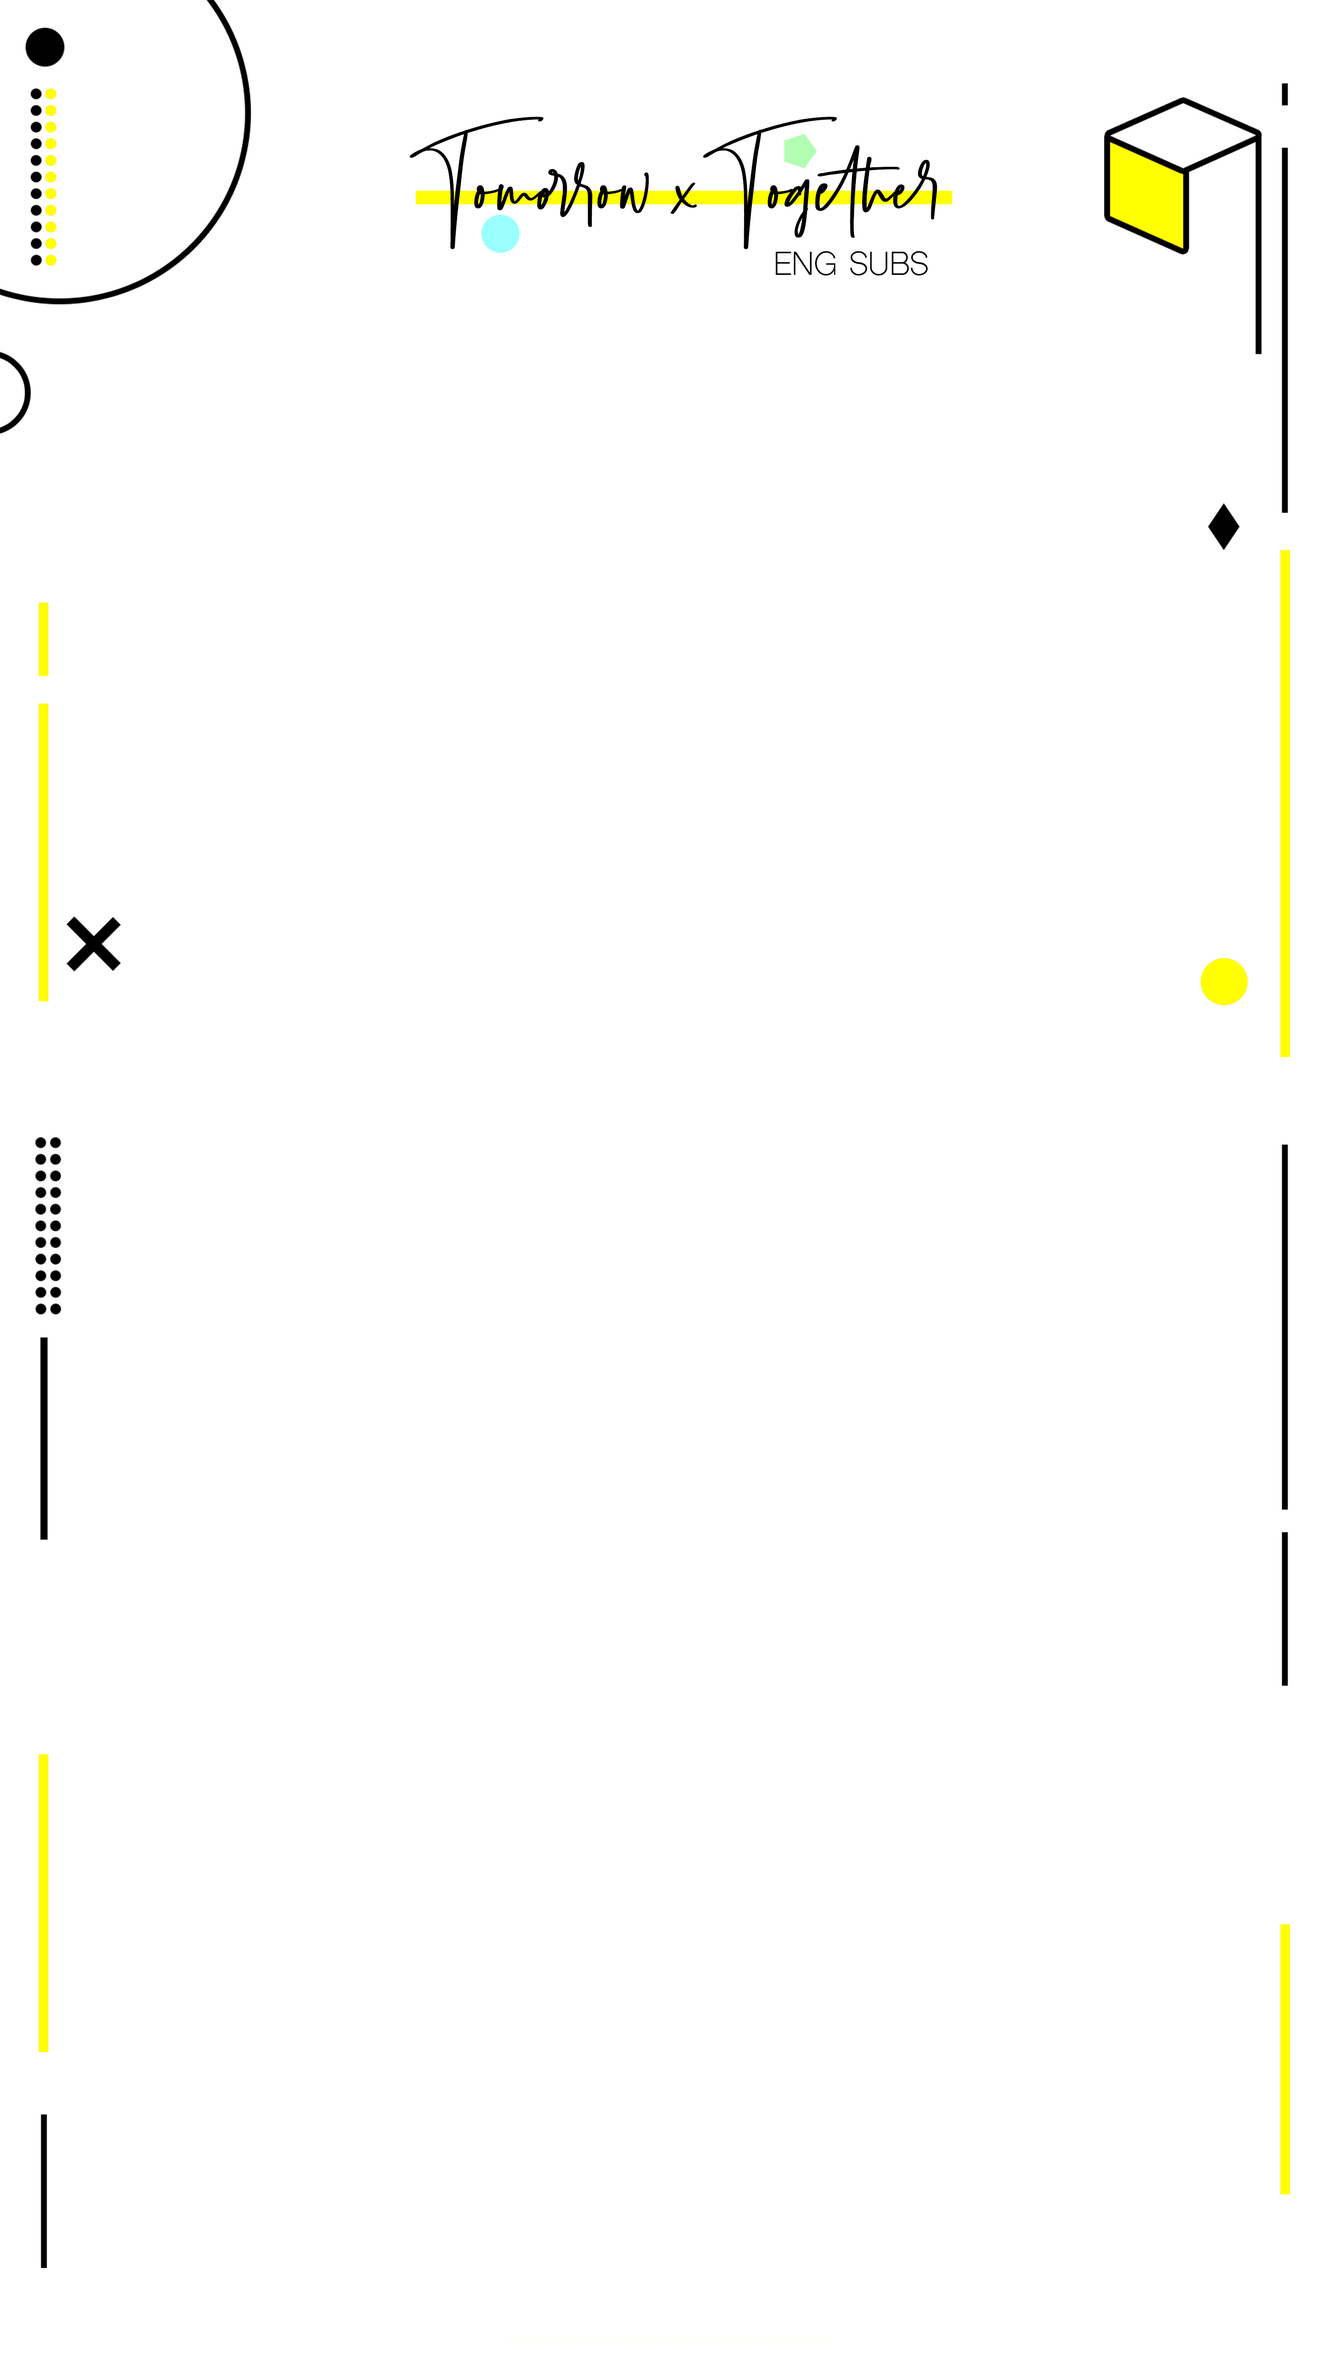
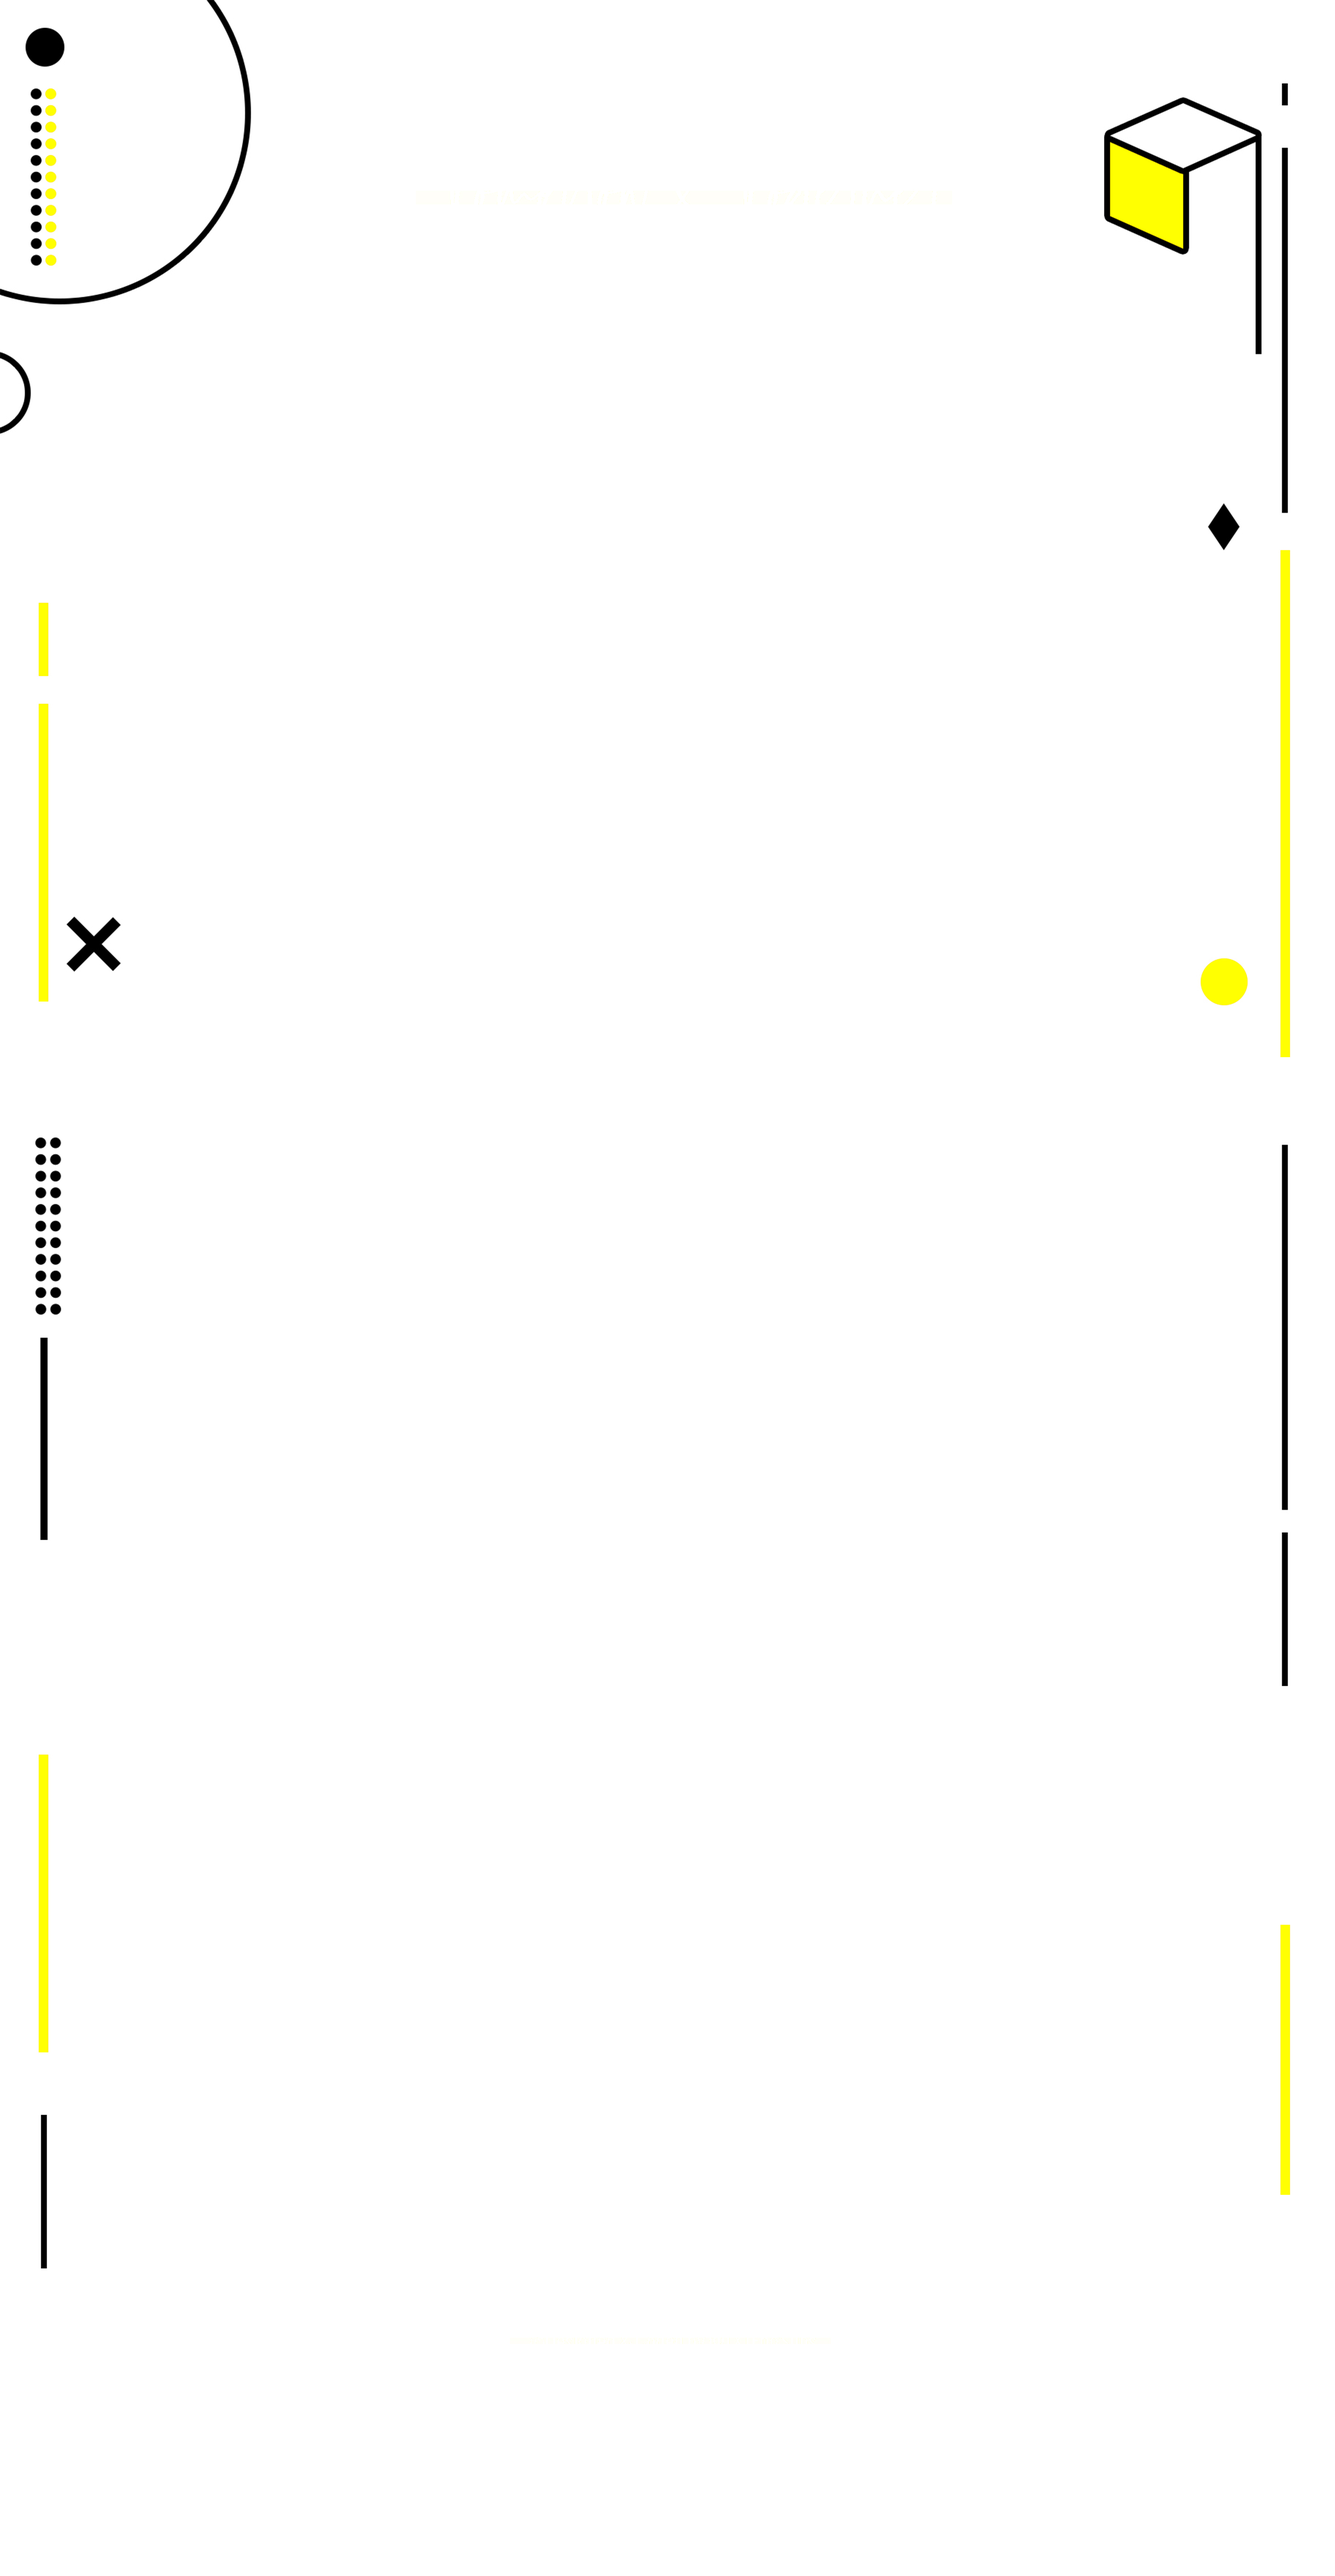
lots of edits

diff --git a/style.css b/style.css
@@ -6,6 +6,24 @@ body {
     background-attachment: scroll;
     background-repeat: no-repeat;
 }
+.logo-picture {
+    margin-top: 10%;
+}
+
+.responsive {
+    display: block;
+    text-align: center;
+    margin-left: auto;
+    margin-right: auto;
+    width: 30%;
+    height: auto;
+  }
+
+@media screen and (max-width: 800px) {
+    .responsive {
+        width: 40%;
+    } 
+}
 header {
     margin-left: 14%;
 }
@@ -23,7 +41,7 @@ ul {
 ul#nav li {
 	position: relative;
     list-style: none;
-    margin: 26% 0 0 0;
+    margin: 1% 0 0 0;
 	height: 72px;
     display: inline-block;
     width: 17%;
@@ -52,7 +70,6 @@ ul#nav li.current a {
 	background: #f26522;
 	color: white;
 }
-
 
 div.recent {
     font-family: Impact, 'Arial Black', sans-serif;
@@ -84,7 +101,7 @@ html, body
     background-color: #000;
 }
 
-div.video-title {
+.video-title {
     width: 100%;
     text-align: center;
     display: block;
@@ -133,6 +150,7 @@ div.video-title {
   .event {
       text-decoration: underline;
       text-decoration-color: #fffb00;
+      font-size: 12px;
   }
   .kst{
       font-size: 70%;
@@ -183,15 +201,39 @@ div.video-title {
   .design {
     text-align: center;
     text-decoration: none;
+    margin-top: 450px;
+    margin-bottom: 5px;
   }
-  a:visited{
+  a.design-link {
       text-decoration: none;
+      color: rgb(35, 167, 255);
+      opacity: 60%;
+      -moz-transition: all 0.2s ease-in-out;
+      -o-transition: all 0.2s ease-in-out;
+      -webkit-transition: all 0.2s ease-in-out;
+      -ms-transition: all 0.2s ease-in-out;
+      transition: all 0.2s ease-in-out;
   }
-  a.design {
-      color: yellow;
+  a.design-link:hover {
+      color: rgb(194, 194, 194);
   }
-
-@media screen and (max-width: 700px) {
+  a.design-link:visited {
+      color: rgb(35, 167, 255);
+  }
+  .yellowlink {
+      text-decoration: none;
+      color: black;
+      background-color: #ffff7b;
+      -moz-transition: all 0.2s ease-in-out;
+      -o-transition: all 0.2s ease-in-out;
+      -webkit-transition: all 0.2s ease-in-out;
+      -ms-transition: all 0.2s ease-in-out;
+      transition: all 0.2s ease-in-out;
+  }
+  a.yellowlink:hover {
+    color: rgb(194, 194, 194);
+}
+@media screen and (max-width: 800px) {
     .menu_text {
         display: none;
     }
@@ -204,13 +246,16 @@ div.video-title {
     ul#nav li {
         text-align: center;
         width: 16.5%;
-        margin: 18% 0 0 0;
-        height: 48px;
+        height: 33px;
+    }
+    ul#nav li a {
+        display: inline-block;
+        padding: 0 12px;
     }
     div.recent {
         font-size: 8px;
     }
-    div.video-title{
+    .video-title{
         font-size: 7px;
     }
     .video {
@@ -245,6 +290,6 @@ div.video-title {
         font-size: 7px;
     }
     .design{
-        font-size: 30%;
+        font-size: 7px;
     }
     }

diff --git a/videos/2019mama.html b/videos/2019mama.html
@@ -4,40 +4,53 @@
     <meta charset="UTF-8">
     <meta name="viewport" content="width=device-width, initial-scale=1.0">
     <meta http-equiv="X-UA-Compatible" content="ie=edge">
-    <title>Others | TXTEngSubs</title>
+    <title>Calendar | TXTEngSubs</title>
  
 <!-- Style sheets -->
 <script src="https://kit.fontawesome.com/2e1e155af3.js" crossorigin="anonymous"></script>
-<link rel="shortcut icon" href="images/logo.png" />
-<link rel="stylesheet" type="text/css" href="style.css">
+<link rel="shortcut icon" href="../images/logo.png" />
+<link rel="stylesheet" type="text/css" href="../style.css">
 <link href="https://fonts.googleapis.com/css?family=Montserrat:400,500,600" rel="style">
 <link href='http://fonts.googleapis.com/css?family=Oswald' rel='style' type='text/css'>
 <script src="https://kit.fontawesome.com/2e1e155af3.js" crossorigin="anonymous"></script>
 <link href='https://fonts.googleapis.com/css?family=Montserrat' rel='stylesheet'>
 </head>
 <body>
+    <div class="logo-picture">
+        <img src="../images/header.jpg" alt="logo" class="responsive">
+    </div>
 <header>
         <ul id="nav" class="nav">
-            <li><a href="index.html">
+            <li><a href="../index.html">
                     <i class="fas fa-home"></i>
                     <span class="menu_text">HOME</span>
                 </a></li>
-            <li><a href="videos.html">
+            <li><a href="../videos.html">
                     <i class="fab fa-youtube"></i>
                     <span class="menu_text">VIDEOS</span></a></li>
-            <li><a href="calendar.html">
+            <li><a href="../calendar.html">
                     <i class="far fa-calendar-alt"></i>
                     <span class="menu_text">CALENDAR</span>
                 </a></li>
-            <li><a href="voting.html">
+            <li><a href="../voting.html">
                     <i class="fas fa-poll"></i>
                     <span class="menu_text">VOTING</span>
                 </a></li>
-            <li><a href="about.html">
+            <li><a href="../about.html">
                     <i class="far fa-address-card"></i>
                     <span class="menu_text">ABOUT</span>
                 </a></li>
         </ul>
 </header>
-</body>
-</html>
+<div>
+    <div class="recent">
+            [ENG SUB] TOMORROW X TOGETHER at 2019 MAMA All Moments <br/><br/>
+            <div class="container">
+                <iframe src="//ok.ru/videoembed/1979856325197" 
+                frameborder="0" allow="autoplay" allowfullscreen class="video"></iframe>
+            </div>
+        </div>   
+</div>
+<div class="design">
+        <br/><br/>©Website designed and coded by <a class="design-link" href="https://twitter.com/TXTEngSubs"> @TXTEngSubs</a>
+    </div>

diff --git a/calendar.html b/calendar.html
@@ -16,6 +16,9 @@
 <link href='https://fonts.googleapis.com/css?family=Montserrat' rel='stylesheet'>
 </head>
 <body>
+    <div class="logo-picture">
+         <img src="images/header.jpg" alt="logo" class="responsive">
+    </div>
 <header>
         <ul id="nav" class="nav">
             <li><a href="index.html">
@@ -65,7 +68,7 @@
             <div class="calendar__day day">7</div>
           </div>
           <div class="calendar__week">
-            <div class="calendar__day day">8</div>
+            <div class="calendar__day day"><div class="event-day">8</div><br/><br/><div class="event">Soobin & Yeonjun Inkigayo special MC @3:50 PM</div></div>
             <div class="calendar__day day">9</div>
             <div class="calendar__day day">10</div>
             <div class="calendar__day day">11</div>
@@ -104,7 +107,7 @@
       </main>
  <!-- CALENDAR ENDS HERE -->
  <div class="design">
-     ©Website designed and coded by <a href="https://twitter.com/TXTEngSubs">@TXTEngSubs</a>
+     <br/><br/>©Website designed and coded by <a class="design" href="https://twitter.com/TXTEngSubs">@TXTEngSubs</a>
  </div>
 </body>
 </html>

diff --git a/index.html b/index.html
@@ -16,6 +16,9 @@
     <link href='https://fonts.googleapis.com/css?family=Montserrat' rel='stylesheet'>
 </head>
 <body>
+        <div class="logo-picture">
+            <img src="images/header.jpg" alt="logo" class="responsive">
+        </div>
     <header>
             <ul id="nav" class="nav">
                 <li><a href="index.html">
@@ -78,7 +81,7 @@
                       <div class="calendar__day day">7</div>
                     </div>
                     <div class="calendar__week">
-                      <div class="calendar__day day">8</div>
+                      <div class="calendar__day day"><div class="event-day">8</div><br/><br/><div class="event">Soobin & Yeonjun Inkigayo special MC @3:50 PM</div></div>
                       <div class="calendar__day day">9</div>
                       <div class="calendar__day day">10</div>
                       <div class="calendar__day day">11</div>

diff --git a/videos.html b/videos.html
@@ -16,6 +16,9 @@
 <link href='https://fonts.googleapis.com/css?family=Montserrat' rel='stylesheet'>
 </head>
 <body>
+    <div class="logo-picture">
+        <img src="images/header.jpg" alt="logo" class="responsive">
+    </div>
 <header>
         <ul id="nav" class="nav">
             <li><a href="index.html">
@@ -39,5 +42,15 @@
                 </a></li>
         </ul>
 </header>
+<div class="recent">VIDEOS</div>
+<div class="video-title">
+<br/>For all other videos, please visit <a class="yellowlink" href="https://www.youtube.com/channel/UC1If8Vb9poncI3DmFvpJd1A?"> my YouTube Channel </a>
+</div>
+<ul class="video-title">
+    <li><a class="videolink" href="videos/2019mama.html"><i class="far fa-play-circle"></i></a></li>
+    <li></li>
+    <li></li>
+    <li></li>
+</ul>
 </body>
 </html>

diff --git a/about.html b/about.html
@@ -16,6 +16,9 @@
 <link href='https://fonts.googleapis.com/css?family=Montserrat' rel='stylesheet'>
 </head>
 <body>
+    <div class="logo-picture">
+        <img src="images/header.jpg" alt="logo" class="responsive">
+    </div>
 <header>
         <ul id="nav" class="nav">
             <li><a href="index.html">

diff --git a/voting.html b/voting.html
@@ -16,6 +16,9 @@
 <link href='https://fonts.googleapis.com/css?family=Montserrat' rel='stylesheet'>
 </head>
 <body>
+    <div class="logo-picture">
+        <img src="images/header.jpg" alt="logo" class="responsive">
+    </div>
 <header>
         <ul id="nav" class="nav">
             <li><a href="index.html">
